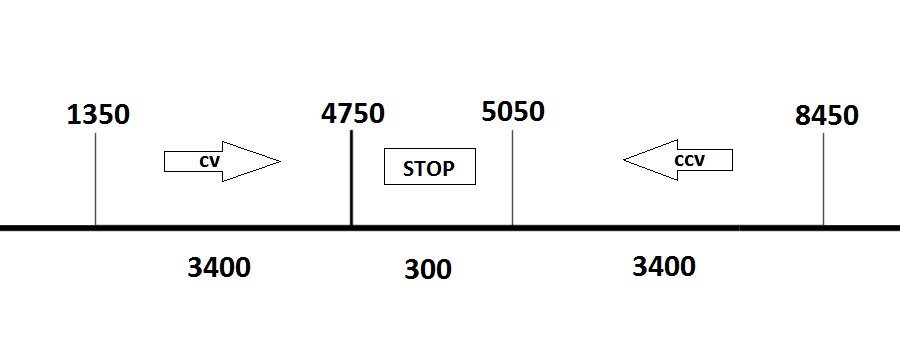
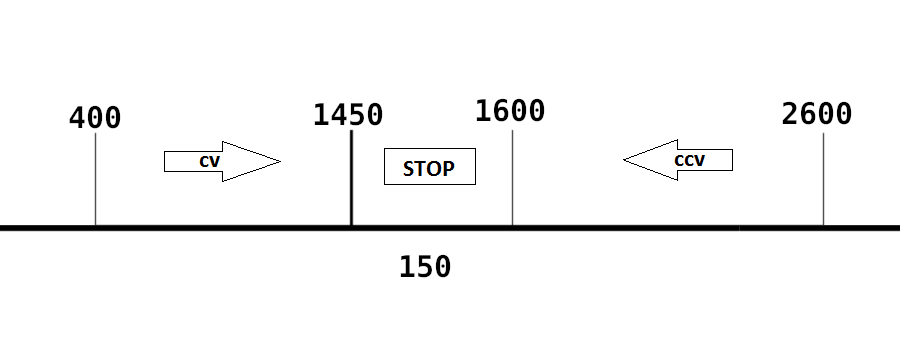
Fixed readme and examples

diff --git a/micropython_servo_pdm_360/servo_pdm_360_rp2.py b/micropython_servo_pdm_360/servo_pdm_360_rp2.py
@@ -8,7 +8,7 @@ import utime
 class ServoPDM360RP2Async(ServoPDM360):
     """Wrapper for ServoPDM360 to add some async functionality to it, based on asyncio"""
 
-    def __init__(self, pwm: PWM, min_us=1000, max_us=9000, dead_zone_us=300, freq=50, invert=False):
+    def __init__(self, pwm: PWM, min_us=500, max_us=3000, dead_zone_us=150, freq=50, invert=False):
         super().__init__(pwm, min_us, max_us, dead_zone_us, freq, invert)
         self._task = None
 
@@ -91,7 +91,7 @@ class ServoPDM360RP2Irq(ServoPDM360):
     __tick_execution_time = 0
     """ This is a crunch.  Without it, the acceleration and deceleration phase will take longer than indicated."""
 
-    def __init__(self, pwm: PWM, min_us=1000, max_us=9000, dead_zone_us=300, freq=50, invert=False):
+    def __init__(self, pwm: PWM, min_us=500, max_us=3000, dead_zone_us=150, freq=50, invert=False):
         super().__init__(pwm, min_us, max_us, dead_zone_us, freq, invert)
         __move_time = 1000 // freq
         self._continue_action_at = 0

diff --git a/micropython_servo_pdm_360/servo_pdm_360.py b/micropython_servo_pdm_360/servo_pdm_360.py
@@ -8,16 +8,18 @@ class ServoPDM360:
     DIRECTION_CV = 1
     DIRECTION_STOP = 0
 
-    def __init__(self, pwm: PWM, min_us=500, max_us=3000, dead_zone_us=300, freq=50, invert=False):
+    def __init__(self, pwm: PWM, min_us=500, max_us=3000, dead_zone_us=150, freq=50, invert=False):
         self.pwm = pwm
         self.pwm.freq(freq)
+        self._move_period_ms = 1000 // freq
+        min_us = min_us if min_us > 0 else 0
+        max_us = max_us if min_us < max_us < (1000 // freq) * 1000 else 0
         self._low_duty_part = self.__get_low_duty_part(dead_zone_us, min_us, max_us)
         self._hi_duty_part = self.__get_hi_duty_part(dead_zone_us, min_us, max_us)
         self._invert = invert
         self._curr_duty = 0
         self._force = 100
         self._curr_dir = 0
-        self._move_period_ms = 1000 // freq
 
     def __delete__(self, instance):
         self.deinit()

diff --git a/examples/smoothing.py b/examples/smoothing.py
@@ -8,7 +8,15 @@ from smooth_servo import SmoothLinear, SmoothEaseIn, SmoothEaseOut, SmoothEaseIn
 import uasyncio as asyncio
 
 servo_pwm = PWM(Pin(21))
-servo = ServoPDM360RP2Async(pwm=servo_pwm, min_us=1350, max_us=8450, freq=50)
+
+# Set the parameters of the servo pulses, more details in the "Documentation" section
+freq = 50
+min_us = 400
+max_us = 2550
+dead_zone_us = 150
+
+# create a servo object
+servo = ServoPDM360RP2Async(pwm=servo_pwm, min_us=min_us, max_us=max_us, dead_zone_us=dead_zone_us, freq=freq)
 
 # It is possible to use the following smooth variations:
 smooth_variations = [

diff --git a/examples/async_extension.py b/examples/async_extension.py
@@ -4,8 +4,15 @@ import uasyncio as asyncio
 
 servo_pwm = PWM(Pin(21))
 
+
+# Set the parameters of the servo pulses, more details in the "Documentation" section
+freq = 50
+min_us = 400
+max_us = 2550
+dead_zone_us = 150
+
 # create a servo object
-servo = ServoPDM360RP2Async(pwm=servo_pwm, min_us=1350, max_us=8450, freq=50)
+servo = ServoPDM360RP2Async(pwm=servo_pwm, min_us=min_us, max_us=max_us, dead_zone_us=dead_zone_us, freq=freq)
 
 
 async def main():

diff --git a/examples/irq_extension.py b/examples/irq_extension.py
@@ -5,8 +5,14 @@ import utime
 
 servo_pwm = PWM(Pin(21))
 
+# Set the parameters of the servo pulses, more details in the "Documentation" section
+freq = 50
+min_us = 400
+max_us = 2550
+dead_zone_us = 150
+
 # create a servo object
-servo = ServoPDM360RP2Irq(pwm=servo_pwm, min_us=1350, max_us=8450, freq=50)
+servo = ServoPDM360RP2Irq(pwm=servo_pwm, min_us=min_us, max_us=max_us, dead_zone_us=dead_zone_us, freq=freq)
 
 
 def main():

diff --git a/examples/simple_usage.py b/examples/simple_usage.py
@@ -8,9 +8,9 @@ servo_pwm = PWM(Pin(21))
 
 # Set the parameters of the servo pulses, more details in the "Documentation" section
 freq = 50
-min_us = 1350
-max_us = 8450
-dead_zone_us = 300
+min_us = 400
+max_us = 2550
+dead_zone_us = 150
 
 # create a servo object
 servo = ServoPDM360(pwm=servo_pwm, min_us=min_us, max_us=max_us, dead_zone_us=dead_zone_us, freq=freq)

diff --git a/examples/encoder_config.py b/examples/encoder_config.py
@@ -18,7 +18,7 @@ from micropython_servo_pdm_360 import ServoPDM360
 servo_pwm = PWM(Pin(21))
 freq = 50
 min_us = 0
-max_us = 10000
+max_us = (1000 / freq) * 1000
 iteration_time_ms = 500
 step_us = 50
 duty = 0

diff --git a/examples/manual_config.py b/examples/manual_config.py
@@ -18,7 +18,7 @@ from micropython_servo_pdm_360 import ServoPDM360
 servo_pwm = PWM(Pin(21))
 freq = 50
 min_us = 0
-max_us = 10000
+max_us = (1000 / freq) * 1000
 iteration_time_ms = 500
 step_us = 50
 

diff --git a/README_RU.md b/README_RU.md
@@ -61,9 +61,9 @@ servo_pwm = PWM(Pin(21))
 
 # Задаем параметры импульсов сервопривода, подробнее в секции "Документация"
 freq = 50
-min_us = 1350
-max_us = 8450
-dead_zone_us = 300
+min_us = 400
+max_us = 2550
+dead_zone_us = 150
 
 # создаем объект сервопривода
 servo = ServoPDM360(pwm=servo_pwm, min_us=min_us, max_us=max_us, dead_zone_us=dead_zone_us, freq=freq)
@@ -84,9 +84,9 @@ servo_pwm = PWM(Pin(21))
 
 # Задаем параметры импульсов сервопривода, подробнее в секции "Документация"
 freq = 50
-min_us = 1350
-max_us = 8450
-dead_zone_us = 300
+min_us = 400
+max_us = 2550
+dead_zone_us = 150
 
 # создаем объект сервопривода
 servo = ServoPDM360RP2Async(pwm=servo_pwm, min_us=min_us, max_us=max_us, dead_zone_us=dead_zone_us, freq=freq)
@@ -106,9 +106,9 @@ servo_pwm = PWM(Pin(21))
 
 # Задаем параметры импульсов сервопривода, подробнее в секции "Документация"
 freq = 50
-min_us = 1350
-max_us = 8450
-dead_zone_us = 300
+min_us = 400
+max_us = 2550
+dead_zone_us = 150
 
 # создаем объект сервопривода
 servo = ServoPDM360RP2Irq(pwm=servo_pwm, min_us=min_us, max_us=max_us, dead_zone_us=dead_zone_us, freq=freq)
@@ -133,18 +133,17 @@ PDM(pulse-duration modulation) - это процесс управления мо
 
 ![pdm configure](pdm_configure.png)
 
-Как мы видим на рисунке, сервопривод начинает вращаться при длительности импульса 1350 мкс, а прекращает вращение при 8450 мкс.
-Таким образом мы получаем параметры `min_us=1350` и `max_us=8450`. Теперь нам надо найти длительность центральной зоны.
-На рисунке видно, что при длине импульса 4750 мкс сервопривод прекращает вращение по часовой стрелке и останавливается. 
-Далее при длине импульса 5050 мкс начинается вращение в обратную сторону. Таким образом параметр `dead_zone_us=300` (5050-4750).
-3400 мкс - это длина рабочего диапазона привода при вращении в одном направлении.
+Как мы видим на рисунке, сервопривод начинает вращаться при длительности импульса 400 мкс, а прекращает вращение при 2600 мкс.
+Таким образом мы получаем параметры `min_us=400` и `max_us=2550` (2600 - 50, так как при 2600 привод уже остановился). Теперь нам надо найти длительность центральной зоны.
+На рисунке видно, что при длине импульса 1450 мкс сервопривод прекращает вращение по часовой стрелке и останавливается. 
+Далее при длине импульса 1600 мкс начинается вращение в обратную сторону. Таким образом параметр `dead_zone_us=150` (1600-1450).
 
 Где взять эти параметры для конкретного сервопривода? Все зависит от производителя. Но в большинстве случаев они указаны в документации.
-Если нет, мо подбираем их вручную используя метод `set_duty` и задавая разные значения от 1000 до 9000 мкс, с шагом в 50 мкс.
+Если нет, мо подбираем их вручную используя метод `set_duty` и задавая разные значения от 0 до 3000 мкс, с шагом в 50 мкс.
 Пример такой конфигурации можно посмотреть в папке примерах файл [manual_config.py](https://github.com/TTitanUA/micropython_servo_pdm_360/tree/main/examples/manual_config.py).
 
 Список параметров для сервоприводов:
-- **MG995_360** - `min_us=1350`, `max_us=8450`, `dead_zone_us=300`, `freq=50`
+- **MG995_360** - `min_us=400`, `max_us=2550`, `dead_zone_us=150`, `freq=50`
 
 **ПРОСЬБА:** Если вы нашли параметры для сервопривода, которых нет в списке, пожалуйста отправьте мне их через [issue](https://github.com/TTitanUA/micropython_servo_pdm_360/issues).
 
@@ -154,9 +153,9 @@ PDM(pulse-duration modulation) - это процесс управления мо
 | Параметр     | Тип  | По умолчанию | Описание                      |
 |--------------|------|--------------|-------------------------------|
 | pwm          | PWM  | None         | PWM контроллер                |
-| min_us       | int  | 1000         | Минимальное время импульса    |
-| max_us       | int  | 9000         | Максимальное время импульса   |
-| dead_zone_us | int  | 300          | Длительность центральной зоны |
+| min_us       | int  | 500          | Минимальное время импульса    |
+| max_us       | int  | 3000         | Максимальное время импульса   |
+| dead_zone_us | int  | 150          | Длительность центральной зоны |
 | freq         | int  | 50           | Частота импульсов             |
 | invert       | bool | False        | Инверсия направления          |
 
@@ -208,9 +207,9 @@ servo_pwm = PWM(Pin(21))
 
 # Задаем параметры импульсов сервопривода, подробнее в секции "Документация"
 freq = 50
-min_us = 1350
-max_us = 8450
-dead_zone_us = 300
+min_us = 400
+max_us = 2550
+dead_zone_us = 150
 
 # создаем объект сервопривода
 servo = ServoPDM360RP2Async(pwm=servo_pwm, min_us=min_us, max_us=max_us, dead_zone_us=dead_zone_us, freq=freq)

diff --git a/README.md b/README.md
@@ -62,9 +62,9 @@ servo_pwm = PWM(Pin(21))
 
 # Set the parameters of the servo pulses, more details in the "Documentation" section
 freq = 50
-min_us = 1350
-max_us = 8450
-dead_zone_us = 300
+min_us = 400
+max_us = 2550
+dead_zone_us = 150
 
 # create a servo object
 servo = ServoPDM360(pwm=servo_pwm, min_us=min_us, max_us=max_us, dead_zone_us=dead_zone_us, freq=freq)
@@ -108,9 +108,9 @@ servo_pwm = PWM(Pin(21))
 
 # Set the parameters of the servo pulses, more details in the "Documentation" section
 freq = 50
-min_us = 1350
-max_us = 8450
-dead_zone_us = 300
+min_us = 400
+max_us = 2550
+dead_zone_us = 150
 
 # create a servo object
 servo = ServoPDM360RP2Irq(pwm=servo_pwm, min_us=min_us, max_us=max_us, dead_zone_us=dead_zone_us, freq=freq)
@@ -135,18 +135,17 @@ Below I tried to graphically represent these parameters for the MG995_360 analog
 
 ![pdm configure](pdm_configure.png)
 
-As we can see in the figure, the servo begins to rotate at a pulse width of 1350 µs, and stops rotating at 8450 µs.
-Thus, we get the parameters `min_us=1350` and `max_us=8450`. Now we need to find the duration of the central zone.
-The figure shows that at a pulse length of 4750 µs, the servo stops rotating clockwise and stops.
-Further, at a pulse length of 5050 μs, the rotation in the opposite direction begins. Thus, the parameter `dead_zone_us=300` (5050-4750).
-3400 µs is the length of the operating range of the actuator when rotating in one direction.
+As we can see in the figure, the servo begins to rotate at a pulse width of 400 µs, and stops rotating at 2600 µs.
+Thus, we get the parameters `min_us=400` and `max_us=2550` (2600 - 50, since at 2600 the drive has already stopped). Now we need to find the duration of the central zone.
+The figure shows that at a pulse length of 1450 µs, the servo stops rotating clockwise and stops.
+Further, at a pulse length of 1600 μs, the rotation in the opposite direction begins. Thus the parameter `dead_zone_us=150` (1600-1450).
 
 Where can I get these parameters for a specific servo? It all depends on the manufacturer. But in most cases they are specified in the documentation.
-If not, we pick them up manually using the `set_duty` method and giving different values from 1000 to 9000 µs, in 50 µs increments.
+If not, we pick them up manually using the `set_duty` method and giving different values from 0 to 3000 µs, in 50 µs increments.
 An example of such a configuration can be found in the examples folder file [manual_config.py](https://github.com/TTitanUA/micropython_servo_pdm_360/tree/main/examples/manual_config.py).
 
 List of parameters for servos:
-- **MG995_360** - `min_us=1350`, `max_us=8450`, `dead_zone_us=300`, `freq=50`
+- **MG995_360** - `min_us=400`, `max_us=2550`, `dead_zone_us=150`, `freq=50`
 
 **PLEASE:** If you find parameters for a servo that are not listed, submit them to me via [issue](https://github.com/TTitanUA/micropython_servo_pdm_360/issues).
 
@@ -156,9 +155,9 @@ List of parameters for servos:
 | Parameter    | Type | Default | Description                  |
 |--------------|------|---------|------------------------------|
 | pwm          | PWM  | None    | PWM controller               |
-| min_us       | int  | 1000    | Minimum impulse time         |
-| max_us       | int  | 9000    | Maximum pulse time           |
-| dead_zone_us | int  | 300     | Duration of the central zone |
+| min_us       | int  | 500     | Minimum impulse time         |
+| max_us       | int  | 3000    | Maximum pulse time           |
+| dead_zone_us | int  | 150     | Duration of the central zone |
 | freq         | int  | 50      | Pulse frequency              |
 | invert       | bool | false   | Direction inversion          |
 
@@ -210,9 +209,9 @@ servo_pwm = PWM(Pin(21))
 
 # Set the parameters of the servo pulses, more details in the "Documentation" section
 freq = 50
-min_us = 1350
-max_us = 8450
-dead_zone_us = 300
+min_us = 400
+max_us = 2550
+dead_zone_us = 150
 
 # create a servo object
 servo = ServoPDM360RP2Async(pwm=servo_pwm, min_us=min_us, max_us=max_us, dead_zone_us=dead_zone_us, freq=freq)
